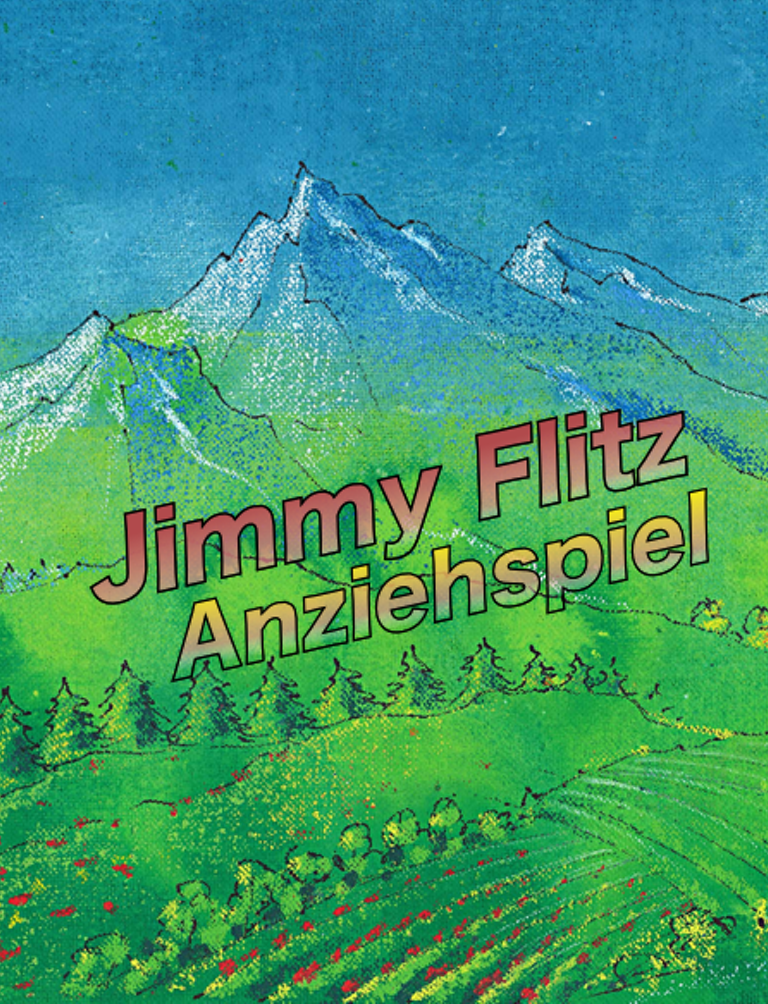
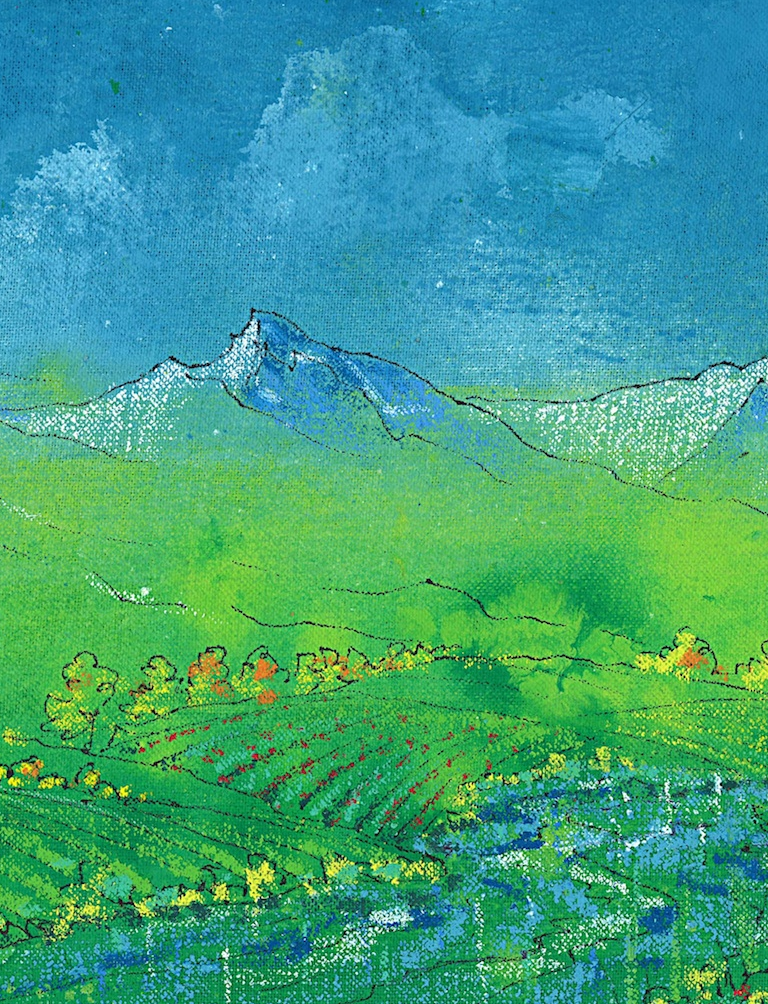
Backgrounds ordering

diff --git a/Resources/game_objects.js b/Resources/game_objects.js
@@ -2,7 +2,7 @@
 var win1 = Titanium.UI.createWindow({  
     title:'Anziehspiel',
     backgroundColor:'#fff',
-    backgroundImage:'iphone/Default.png'
+    backgroundImage:'assets/backgrounds/Landscape1.jpg'
 });
 
 // fade cabinet
@@ -47,7 +47,7 @@ var imgClothes = [];
 		if (i >= clothes.length - 1) { 
 			img.center = {x:'auto', y:63};
 			img.height = '140px'; img.width = '140px';
-			img.zIndex = 21;
+			//img.zIndex = 21;
 		// make the shoes bigger
 		} else if (i == clothes.length - 2) { 
 			img.height = '100px'; img.width = '90px';

diff --git a/Resources/app.js b/Resources/app.js
@@ -73,15 +73,13 @@ function startGame() {
 // open root window
 win1.open();
 win1.add(imgIntro);
-imgIntro.hide();
+// imgIntro.hide();
 
 // event handler
 var gameStarted = false;
 win1.addEventListener('click',function(e)
 {
-	if (!imgIntro.visible) {
-		imgIntro.show();
-	} else if (!gameStarted) {
+	if (!gameStarted) {
 		gameStarted = true;
 		startGame();
 	}
